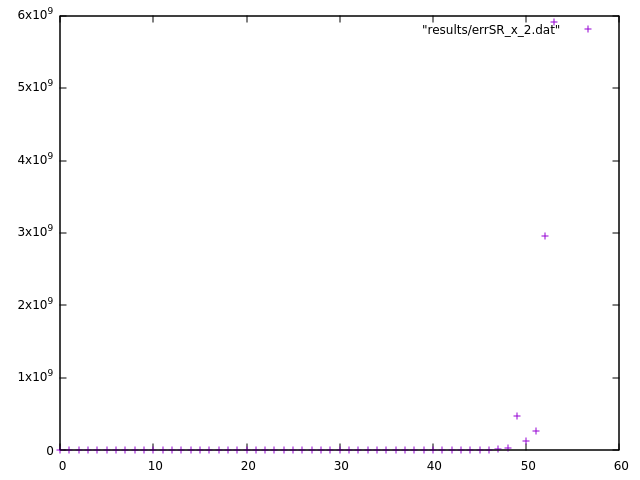
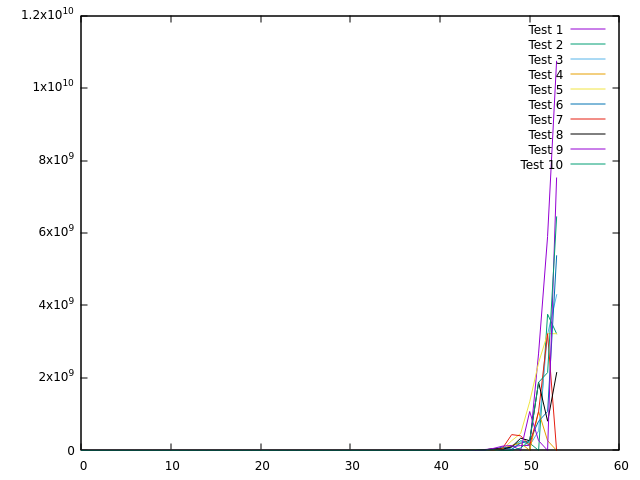
Add test for Verificarlo
n push to 60

diff --git a/exp_naif/erreur.c b/exp_naif/erreur.c
@@ -1,6 +1,7 @@
 #include <stdio.h>
 #include <stdlib.h>
 #include <math.h>
+#include <string.h>
 
 int main(int argc, char ** argv) {
 
@@ -8,7 +9,7 @@ int main(int argc, char ** argv) {
     FILE *ref1, *ref2, *ref3;
     float ref_val1, ref_val2, ref_val3;
     ref1 = fopen("results/ref_x_2.dat", "r");
-    ref2 = fopen("results/ref_x_0_5.dat", "r");
+    ref2 = fopen("results/ref_x_0_995.dat", "r");
     ref3 = fopen("results/ref_x_rand.dat", "r");
     // On vérifie que les ouvertures se sont bien passées
     if (ref1 == NULL || ref2 == NULL || ref3 == NULL) {
@@ -16,52 +17,73 @@ int main(int argc, char ** argv) {
         return 1;
     }
 
-    // OUverture des trois fichiers contenant les valeurs de x^n pour SR
-    FILE *SR1, *SR2, *SR3;
-    float val_sr1, val_sr2, val_sr3;
-    SR1 = fopen("results/SR_x_2.dat", "r");
-    SR2 = fopen("results/SR_x_0_5.dat", "r");
-    SR3 = fopen("results/SR_x_rand.dat", "r");
-    if (SR1 == NULL || SR2 == NULL || SR3 == NULL) {
-        perror("open");
-        return 1;
-    }
+    for (int i=1; i < 11; i++)
+    {
+        // OUverture des fichiers contenant les valeurs de x^n pour SR
+        FILE *SR1, *SR2, *SR3;
+        float val_sr1, val_sr2, val_sr3;
+
+         char tmp1[50];
+        sprintf(tmp1, "results/SR_x_2_%d.dat", i);
+        SR1 = fopen(tmp1, "r");
+
+        char tmp2[50];
+        sprintf(tmp2, "results/SR_x_0_995_%d.dat", i);
+        SR2 = fopen(tmp2, "r");
+
+        char tmp3[50];
+        sprintf(tmp3, "results/SR_x_rand_%d.dat", i);
+        SR3 = fopen(tmp3, "r");
+
+        if (SR1 == NULL || SR2 == NULL || SR3 == NULL) {
+            perror("open");
+            return 1;
+        }
     
-    // Création des trois fichiers qui vont contenir l'erreur SR
-    FILE *errSR1, *errSR2, *errSR3;
-    float err_sr1_val, err_sr2_val, err_sr3_val;
-    errSR1 = fopen("results/errSR_x_2.dat", "w");
-    errSR2 = fopen("results/errSR_x_0_5.dat", "w");
-    errSR3 = fopen("results/errSR_x_rand.dat", "w");
+        // Création des fichiers qui vont contenir l'erreur SR
+        FILE *errSR1, *errSR2, *errSR3;
+        float err_sr1_val, err_sr2_val, err_sr3_val;
 
-    // Calcul de la valeur absolue de la différence entre les colonnes de ref et SR
-    while (fscanf(ref1, "%f ", &ref_val1) == 1 && fscanf(SR1, "%f ", &val_sr1) == 1) {
-        err_sr1_val = fabs(val_sr1 - ref_val1);
-        fprintf(errSR1, "%f\n", err_sr1_val);
+        char etmp1[50];
+        sprintf(etmp1, "results/errSR_x_2_%d.dat", i);
+        errSR1 = fopen(etmp1, "w");
+
+        char etmp2[50];
+        sprintf(etmp2, "results/errSR_x_0_995_%d.dat", i);
+        errSR2 = fopen(etmp2, "w");
+
+        char etmp3[50];
+        sprintf(etmp3, "results/errSR_x_rand_%d.dat", i);
+        errSR3 = fopen(etmp3, "w");
+
+        // Calcul de la valeur absolue de la différence entre les colonnes de ref et SR
+        while (fscanf(ref1, "%f ", &ref_val1) == 1 && fscanf(SR1, "%f ", &val_sr1) == 1) {
+            err_sr1_val = fabs(val_sr1 - ref_val1);
+            fprintf(errSR1, "%f\n", err_sr1_val);
+        }
+        rewind(SR1);
+        rewind(ref1);
+        fclose(SR1);
+        fclose(errSR1);
+
+        while (fscanf(ref2, "%f ", &ref_val2) == 1 && fscanf(SR2, "%f ", &val_sr2) == 1) {
+            err_sr2_val = fabs(val_sr2 - ref_val2);
+            fprintf(errSR2, "%f\n", err_sr2_val);
+        }
+        rewind(SR2);
+        rewind(ref2);
+        fclose(SR2);
+        fclose(errSR2);
+
+        while (fscanf(ref3, "%f ", &ref_val3) == 1 && fscanf(SR3, "%f ", &val_sr3) == 1) {
+            err_sr3_val = fabs(val_sr3 - ref_val3);
+            fprintf(errSR3, "%f\n", err_sr3_val);
+        }
+        rewind(SR3);
+        rewind(ref3);
+        fclose(SR3);
+        fclose(errSR3);
     }
-    rewind(SR1);
-    rewind(ref1);
-    fclose(SR1);
-    fclose(errSR1);
-
-    while (fscanf(ref2, "%f ", &ref_val2) == 1 && fscanf(SR2, "%f ", &val_sr2) == 1) {
-        err_sr2_val = fabs(val_sr2 - ref_val2);
-        fprintf(errSR2, "%f\n", err_sr2_val);
-    }
-    rewind(SR2);
-    rewind(ref2);
-    fclose(SR2);
-    fclose(errSR2);
-
-    while (fscanf(ref3, "%f ", &ref_val3) == 1 && fscanf(SR3, "%f ", &val_sr3) == 1) {
-        err_sr3_val = fabs(val_sr3 - ref_val3);
-        fprintf(errSR3, "%f\n", err_sr3_val);
-    }
-    rewind(SR3);
-    rewind(ref3);
-    fclose(SR3);
-    fclose(errSR3);
-
 
     // Même chose pour UR
 
@@ -69,7 +91,7 @@ int main(int argc, char ** argv) {
     FILE *UR1, *UR2, *UR3;
     float val_ur1, val_ur2, val_ur3;
     UR1 = fopen("results/UR_x_2.dat", "r");
-    UR2 = fopen("results/UR_x_0_5.dat", "r");
+    UR2 = fopen("results/UR_x_0_995.dat", "r");
     UR3 = fopen("results/UR_x_rand.dat", "r");
     if (UR1 == NULL || UR2 == NULL || UR3 == NULL) {
         perror("open");
@@ -80,7 +102,7 @@ int main(int argc, char ** argv) {
     FILE *errUR1, *errUR2, *errUR3;
     float err_ur1_val, err_ur2_val, err_ur3_val;
     errUR1 = fopen("results/errUR_x_2.dat", "w");
-    errUR2 = fopen("results/errUR_x_0_5.dat", "w");
+    errUR2 = fopen("results/errUR_x_0_995.dat", "w");
     errUR3 = fopen("results/errUR_x_rand.dat", "w");
 
     // Calcul de la valeur absolue de la différence entre les colonnes de ref et UR

diff --git a/exp_naif/main.c b/exp_naif/main.c
@@ -19,7 +19,7 @@ int main(int argc, char** argv){
  
     float x = atof(argv[1]);
     float tmp;
-    for (int n = 0; n < 54; n++){
+    for (int n = 0; n < 61; n++){
         tmp = exp_naif_iter(x, n);
         printf("%f\n", tmp);
     }
